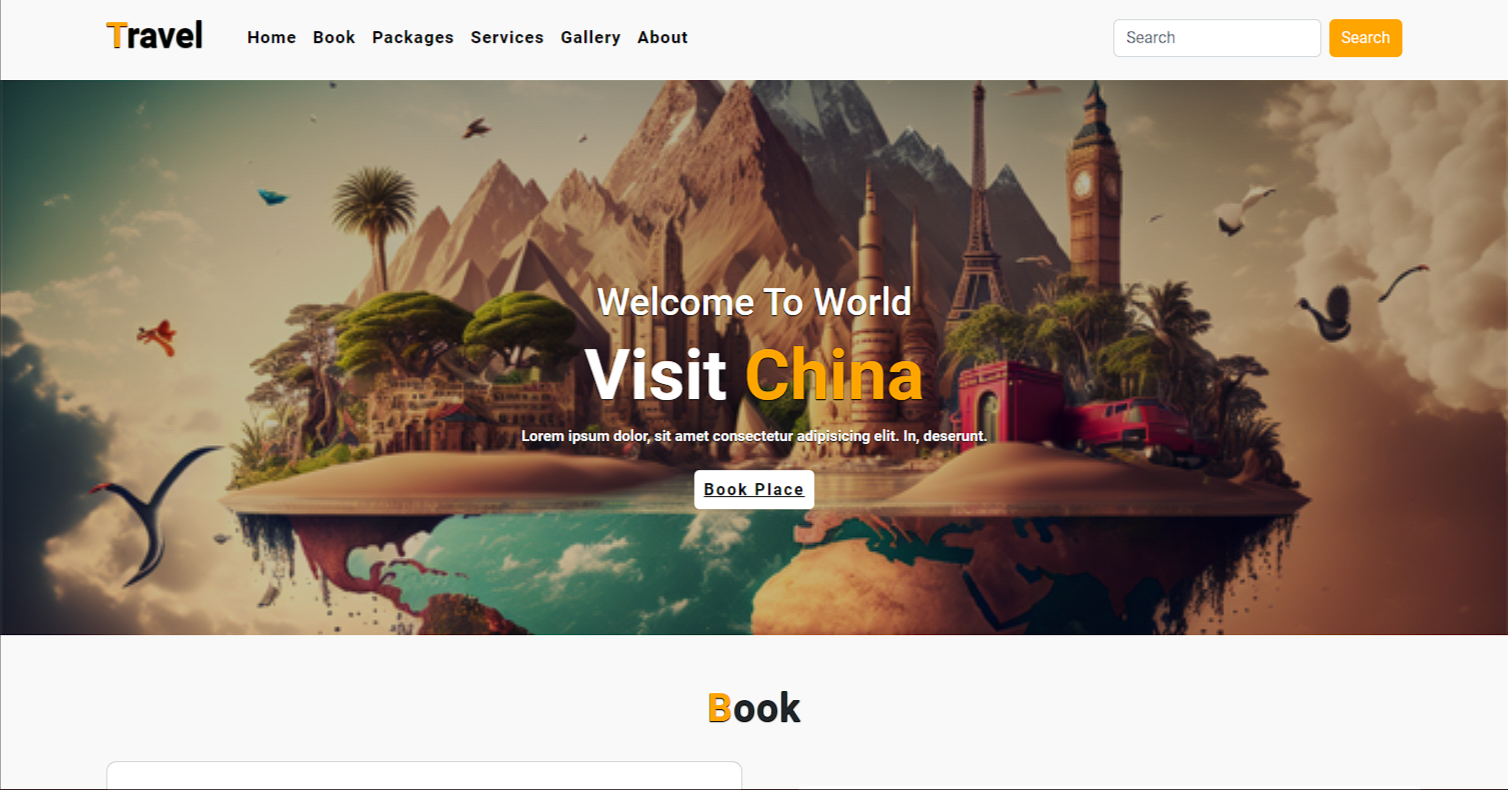
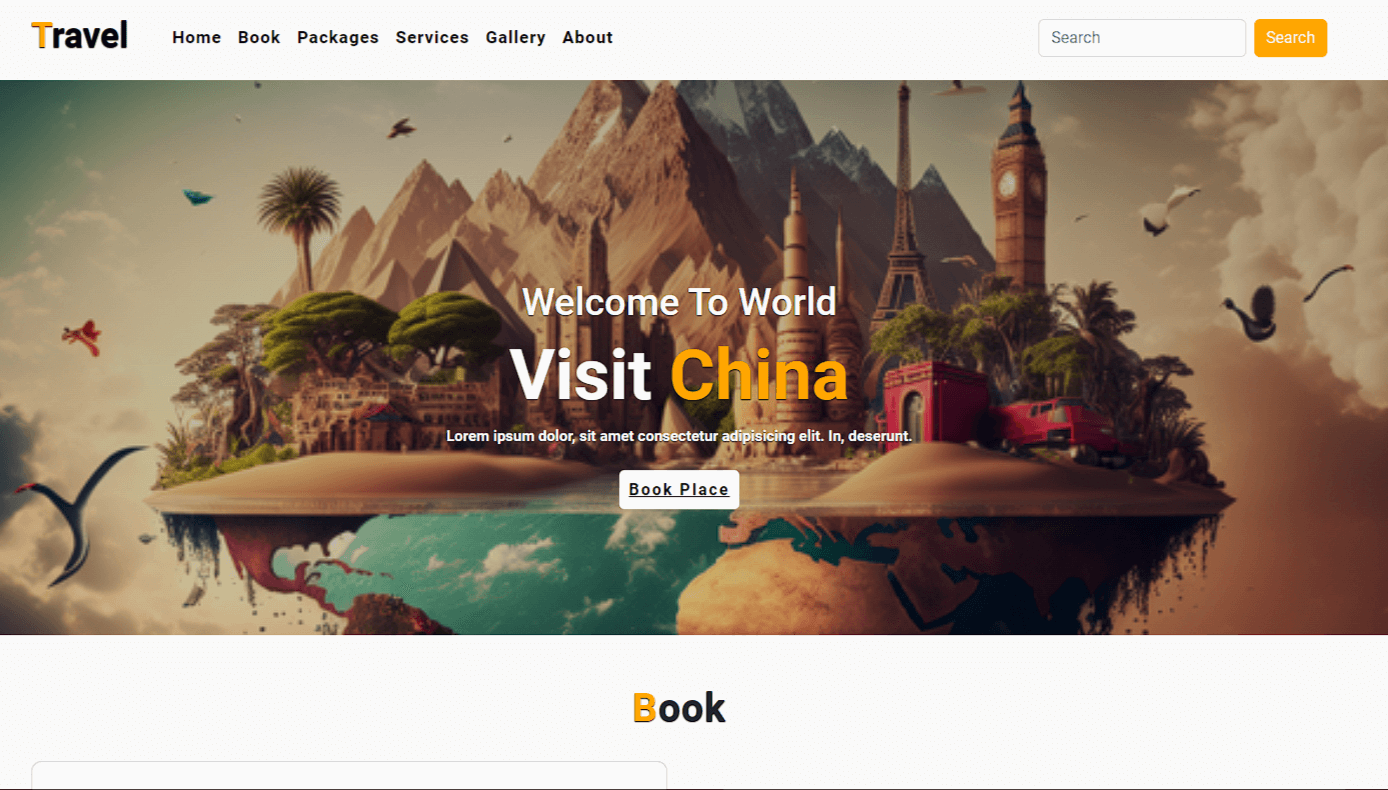
project change box

diff --git a/index.html b/index.html
@@ -77,7 +77,7 @@
     <div class="projects__grid">
         <div class="project__box">
             <div class="project__img">
-                <img src="/images/Captura de pantalla (222).png" alt="">
+                <img src="/images/Captura de pantalla (223).png" alt="">
             </div>
             <div class="box__description">
                 <div>
@@ -86,7 +86,6 @@
 
                 </div>
                 <div class="box__list">
-
                     <ul>
                         <li><i class='bx bxl-html5'></i></li>
                         <li><i class='bx bxl-css3'></i></li>
@@ -97,7 +96,7 @@
         </div>
         <div class="project__box">
             <div class="project__img">
-                <img src="/images/Captura de pantalla (223).png" alt="">
+                <img src="/images/Captura de pantalla (225).png" alt="">
             </div>
             <div class="box__description">
                 <div>
@@ -112,10 +111,10 @@
                     </ul>
                 </div>
             </div>
-        </div>
-        <div class="project__box">
+        </div> 
+         <div class="project__box">
             <div class="project__img">
-                <img src="/images/Captura de pantalla (227).png" alt="">
+                <img src="/images/Captura de pantalla (231).png" alt="">
             </div>
             <div class="box__description">
                 <div>
@@ -130,10 +129,10 @@
                     </ul>
                 </div>
             </div>
-        </div>
+        </div> 
         <div class="project__box">
             <div class="project__img">
-                <img src="/images/Captura de pantalla (228).png" alt="">
+                <img src="/images/Captura de pantalla (232).png" alt="">
             </div>
             <div class="box__description">
                 <div>

diff --git a/scss/sections/projects/_projects.scss b/scss/sections/projects/_projects.scss
@@ -1,8 +1,8 @@
 .projects{
     height: 100%;
-    margin-inline: 6rem;
+    margin-inline: 9rem;
     padding-bottom: 3rem;
-
+    padding-top: 4rem;
 
     .projects__grid{
         display: grid;
@@ -15,20 +15,22 @@
         .project__box{
            @include contenedor-projectos;
             display: flex;
+            flex-direction: column;
             max-width: 650px;
-            padding: .5rem;
-
+            max-height: 570px;
+            padding-bottom: .7rem;
             
 
             .project__img{
-                width: 50%;
-
+                width: 100%;
+                height: 100%;
                 
                 img{
                     object-fit: cover;
-                    border-radius: 5px;
-                    max-width: 100%;
-                    height: 100%;
+                    width: 100%;
+                    height: 95%;
+                    border-top-left-radius: 13px;
+                    border-top-right-radius: 13px;
                 }
             }
             .box__description{
@@ -37,8 +39,7 @@
                 justify-content: space-between;
                 flex-direction: column;
                 color: $color-white-strong;
-                width: 100%;
-                margin-left: 1rem;
+                margin-left: .6rem;
 
                 h2{
                     font-size: 1.3rem;
@@ -65,7 +66,9 @@
 
                 ul{
                     display: flex;
-                    gap: 1rem;
+                    gap: .7rem;
+                    margin-top: 1.5rem;
+                    margin-right: 1rem;
                     justify-content: flex-end;
                 }
             }

diff --git a/css/style.css b/css/style.css
@@ -81,7 +81,7 @@
 }
 
 header {
-  height: 85vh;
+  height: 75vh;
   width: 100%;
 }
 
@@ -198,8 +198,9 @@ header {
 
 .projects {
   height: 100%;
-  margin-inline: 6rem;
+  margin-inline: 9rem;
   padding-bottom: 3rem;
+  padding-top: 4rem;
 }
 .projects .projects__grid {
   display: grid;
@@ -215,17 +216,21 @@ header {
   -webkit-backdrop-filter: blur(5.8px);
   border: 1px solid rgba(255, 255, 255, 0.61);
   display: flex;
+  flex-direction: column;
   max-width: 650px;
-  padding: 0.5rem;
+  max-height: 570px;
+  padding-bottom: 0.7rem;
 }
 .projects .projects__grid .project__box .project__img {
-  width: 50%;
+  width: 100%;
+  height: 100%;
 }
 .projects .projects__grid .project__box .project__img img {
   object-fit: cover;
-  border-radius: 5px;
-  max-width: 100%;
-  height: 100%;
+  width: 100%;
+  height: 95%;
+  border-top-left-radius: 13px;
+  border-top-right-radius: 13px;
 }
 .projects .projects__grid .project__box .box__description {
   font-family: "Nunito", sans-serif;
@@ -233,8 +238,7 @@ header {
   justify-content: space-between;
   flex-direction: column;
   color: rgb(243, 243, 243);
-  width: 100%;
-  margin-left: 1rem;
+  margin-left: 0.6rem;
 }
 .projects .projects__grid .project__box .box__description h2 {
   font-size: 1.3rem;
@@ -257,7 +261,9 @@ header {
 }
 .projects .projects__grid .project__box .box__description ul {
   display: flex;
-  gap: 1rem;
+  gap: 0.7rem;
+  margin-top: 1.5rem;
+  margin-right: 1rem;
   justify-content: flex-end;
 }
 

diff --git a/scss/sections/header/_header.scss b/scss/sections/header/_header.scss
@@ -1,5 +1,5 @@
 header{
-    height: 85vh;
+    height: 75vh;
     width: 100%;
 }
 
